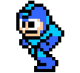
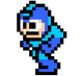
Continued to work on animation. Also enemies are smart now.

diff --git a/mattNappo/game/game.py b/mattNappo/game/game.py
@@ -8,18 +8,29 @@ runAnimation = False
 
 global indexio
 indexio = 0
+global arrImages
+
+global leftArrImages
+leftArrImages = []
 arrImages=[]
+
 for i in range(4):
     tmpImg = pyglet.image.load("img/spr/anim/step"+str(i)+".png")
-    spr = pyglet.sprite.Sprite(tmpImg, x=45, y=175)
-    arrImages.append(spr)
+    runSprite = pyglet.sprite.Sprite(tmpImg, x=45, y=175)
+    arrImages.append(runSprite)
+    
+for i in range(4):
+    tmpImg = pyglet.image.load("img/spr/anim/left/step"+str(i)+".png")
+    runSprite = pyglet.sprite.Sprite(tmpImg, x=45, y=175)
+    leftArrImages.append(runSprite)
+    
 def updateIndex(dt):
     global indexio
     if runAnimation == True:
         if indexio < 3:
             indexio+=1
         else:
-                indexio = 0
+            indexio = 0
     
 class Background():
     def __init__(self):
@@ -51,7 +62,6 @@ class Laser():
             self.lasers = pyglet.sprite.Sprite(self.img[0], x=self.x, y=self.y)
             self.x = self.x + 10
             self.lasers.x = self.x
-
 def moveLaser():
     if lasers:
         for laser in lasers:
@@ -83,16 +93,13 @@ class Coin():
             self.spr = pyglet.sprite.Sprite(self.img[1], x=self.x, y=self.y)
             self.spr.x = self.x
             self.spr.y = self.y
-
 coins = Coin()
 coins.spawn(0)
-
 class Platform():
     def __init__(self, x, y, length):
         self.x = x
         self.y = y
         self.length = length
-        
 p1 = Platform(467, 299, 450) # center
 p2 = Platform(0, 299, 190) # left
 p3 = Platform(1175, 299, 185) # right
@@ -101,10 +108,11 @@ p5 = Platform(910, 433, 255) #  upper right
 p6 = Platform(200, 433, 260) # upper left
 p7 = Platform(447, 588, 470) # upper center
 platforms = [p1, p2, p3, p4, p5, p6, p7]
-
 background = Background()
 class Character():
     def __init__(self, xx, yy):
+        '''global arrImages
+        global leftArrImagess'''
         self.x = xx
         self.y = yy
         self.health = 100
@@ -119,16 +127,17 @@ class Character():
         self.lastDir = None
         self.width = 80
         self.height = 80
-        self.img = [pyglet.image.load("img/spr/right.png"), pyglet.image.load("img/spr/left.png"), pyglet.image.load("img/nothing.png")]
-        self.character = pyglet.sprite.Sprite(self.img[0], x=self.x, y=self.y)
+        '''self.rightAnimSprites = arrImages
+        self.leftAnimSprites = leftArrImages'''
+        self.character = pyglet.image.load("img/spr/right.png")
     def move(self):
+        global runAnimation
         #gravity
         self.velocity = self.velocity - .4
         if self.velocity < -8:
             self.velocity = -8
         self.y = self.velocity + self.y
         self.character.y = self.y
-        #print("y: ", str(self.y), "vel: ", str(self.velocity))
         #DETECTION
         for i in range(len(platforms)):
             if self.x >= platforms[i].x and self.x <= platforms[i].x + platforms[i].length:
@@ -136,24 +145,17 @@ class Character():
                     self.velocity = 0
                     self.y = platforms[i].y
                     self.character.y = self.y
-        
         #no movement
         if self.left == False and self.right == False:
+            runAnimation = False
             if self.lastDir == 0:
                 if self.normalColor == True:
                     spr = pyglet.image.load("img/spr/left.png")
-                    self.character = pyglet.sprite.Sprite(spr, x=self.x, y=self.y)
-                else:
-                    spr = pyglet.image.load("img/spr/green/left.png")
                     self.character = pyglet.sprite.Sprite(spr, x=self.x, y=self.y)
             elif self.lastDir == 1:
                 if self.normalColor == True:
                     spr = pyglet.image.load("img/spr/right.png")
                     self.character = pyglet.sprite.Sprite(spr, x=self.x, y=self.y)
-                else:
-                    spr = pyglet.image.load("img/spr/green/right.png")
-                    self.character = pyglet.sprite.Sprite(spr, x=self.x, y=self.y)
-                
         #jump
         if self.up == True:
             if(self.velocity == 0):
@@ -163,23 +165,10 @@ class Character():
         
         #left and right movement
         if self.left == True:
-            if self.normalColor == True:
-                runAnimation = True
-                '''spr = pyglet.image.load("img/spr/runLeft.png")
-                self.character = pyglet.sprite.Sprite(spr, x=self.x, y=self.y)'''
-            else:
-                spr = pyglet.image.load("img/spr/green/runLeft.png")
-                self.character = pyglet.sprite.Sprite(spr, x=self.x, y=self.y)
             self.x = self.x - self.amount
             self.character.x = self.x
             self.lastDir = 0
         if self.right == True:
-            if self.normalColor == True:
-                spr = pyglet.image.load("img/spr/runRight.png")
-                self.character = pyglet.sprite.Sprite(spr, x=self.x, y=self.y)
-            else:
-                spr = pyglet.image.load("img/spr/green/runRight.png")
-                self.character = pyglet.sprite.Sprite(spr, x=self.x, y=self.y)
             self.x = self.x + self.amount
             self.character.x = self.x
             self.lastDir = 1
@@ -205,12 +194,20 @@ class Character():
             self.x = 1358
             self.character.x = self.x
 
-class Enemy():
+class Enemy(Character):
     def __init__(self):
         self.x = 0
         self.y = 0
         self.health = 25
         self.width = 80
+        self.left = False
+        self.lastDir = None
+        self.amount = 4
+        self.up = False
+        self.down = False
+        self.right = False
+        self.velocity = 0
+        self.normalColor = True
         self.height = 80
         self.direction = ""
         self.img = [pyglet.image.load("img/spr/enemy/right.png"), pyglet.image.load("img/spr/enemy/left.png")]
@@ -240,7 +237,7 @@ class Enemy():
                                 char.points+=2
                                 self.spawn()
                             else: 
-                                self.health-=1        
+                                self.health-=1
 
 window = pyglet.window.Window(1440, 900)
 window.set_caption("Remake of Mario")
@@ -258,13 +255,18 @@ enemies = []
 
 @window.event
 def on_draw():
+    global indexio
+    global animSprites
+    global leftAnimSprites
     window.clear()
     background.background.draw()
-    char.character.draw()
-    global indexio
-    print(indexio)
-    img = arrImages[indexio]
-    img.draw()
+    #char.character.draw()
+    if char.lastDir == 1:
+        char.character = arrImages[indexio]
+        char.character.draw()
+    else:
+        char.character = leftArrImages[indexio]
+        char.character.draw()
     health = pyglet.text.Label("Health: " + str(char.health), font_name='Times New Roman', font_size=36, x=20, y=20)
     health.draw()
     points = pyglet.text.Label("Points: " + str(char.points), font_name='Times New Roman', font_size=36, x=300, y=20)
@@ -276,13 +278,15 @@ def on_draw():
 
 @window.event
 def on_key_press(symbol, modifiers):
+    global runAnimation
     if symbol == key.A:
         char.left = True
+        runAnimation = True
     if symbol == key.D:
         char.right = True
+        runAnimation = True
     if symbol == key.SPACE:
         char.up = True
-        
 def enemyFire(dt):
     laser = Laser(enemy.x, enemy.y)
     if enemy.direction == "right":
@@ -318,9 +322,13 @@ def dead():
 def changeEnemyLocation():
     if enemy.x >= char.x:
         enemy.direction = "left"
+        enemy.right = False
+        enemy.left = True
         enemy.character = pyglet.sprite.Sprite(enemy.img[1], x=enemy.x, y=enemy.y)
     elif enemy.x <= char.x:
         enemy.direction = "right"
+        enemy.left = False
+        enemy.right = True
         enemy.character = pyglet.sprite.Sprite(enemy.img[0], x=enemy.x, y=enemy.y)
 
 @window.event
@@ -349,15 +357,19 @@ def on_mouse_press(x, y, button, modifiers):
             lasers.append(laser)
 @window.event
 def on_key_release(symbol, modifiers):
+    global runAnimation
     if symbol == key.A:
         char.left = False
+        runAnimation = False
     if symbol == key.D:
         char.right = False
+        runAnimation = False
     if symbol == key.SPACE:
         char.up = False
 def deClogger(dt):
     moveLaser()
     char.move()
+    enemy.move()
     char.spiderSense()
     char.coinDetect()
     enemy.detectLaser()

diff --git a/mattNappo/game/anim.py b/mattNappo/game/anim.py
@@ -1,8 +1,9 @@
 import pyglet
-window = pyglet.window.Window(100,100)
+from pyglet.window import key
+window = pyglet.window.Window(1000,1000)
 global x
 x = 0
-
+global spr
 arrImages=[]
 for i in range(4):
     tmpImg = pyglet.image.load("img/spr/anim/step"+str(i)+".png")
@@ -15,7 +16,15 @@ def updateIndex(dt):
         x+=1
     else:
         x = 0
+@window.event
+def on_key_press(symbol, modifiers):
+    global spr
+    global runAnimation
+    if symbol == key.D:
+        spr.x+=5
+        runAnimation = True
 
+        
 @window.event
 def on_draw():
     window.clear()
